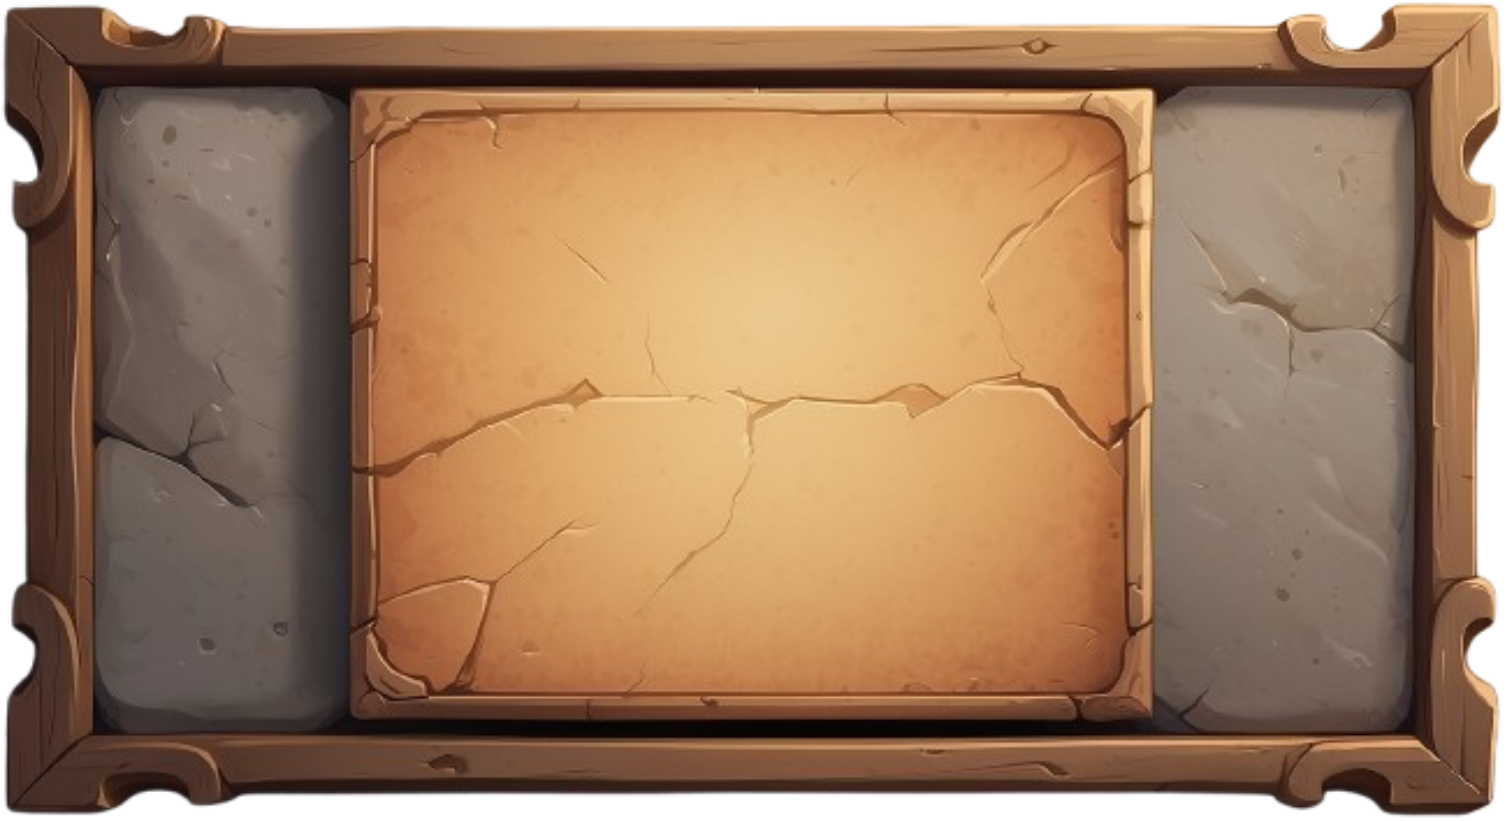
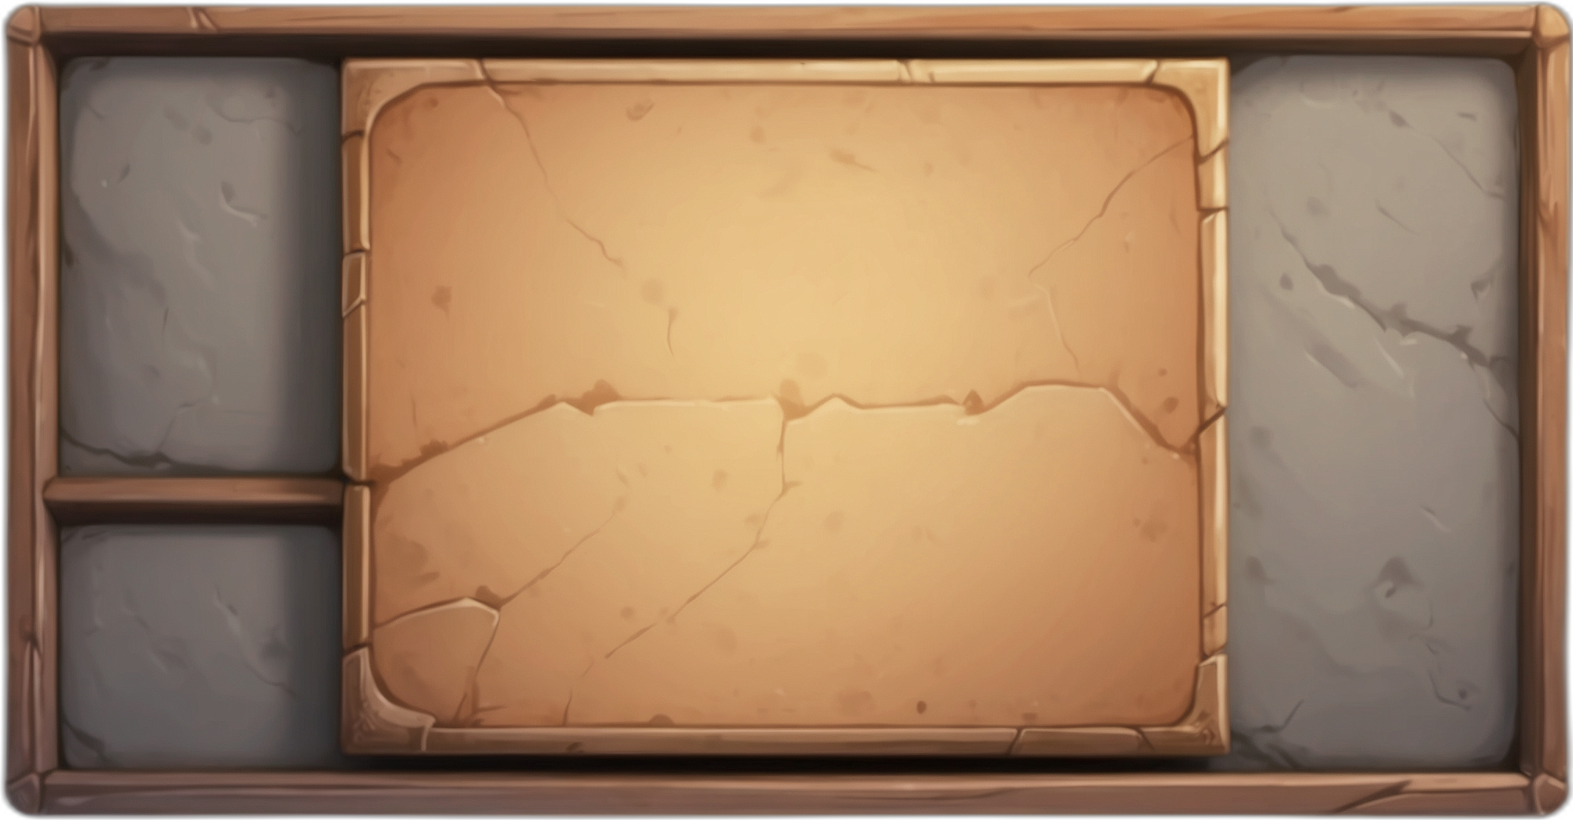
WIP new design recruit card

diff --git a/src/ui/rooms/command_room/room_command_room.rs b/src/ui/rooms/command_room/room_command_room.rs
@@ -63,10 +63,15 @@ pub fn room_command_room(
                         flex_direction: FlexDirection::Row,
                         justify_content: JustifyContent::Center,
                         align_items: AlignItems::Center,
-                        column_gap: Val::Px(30.0),
+                        column_gap: Val::Px(10.0),
                         width: Val::Px(1170.0),
-                        height: Val::Px(650.0),
-                        padding: UiRect::all(Val::Px(80.)),
+                        height: Val::Px(600.0),
+                        padding: UiRect {
+                            left: Val::Px(50.0),
+                            right: Val::Px(50.0),
+                            top: Val::Px(50.0),
+                            bottom: Val::Px(35.0),
+                        },
                         ..default()
                     },
                     GlobalZIndex(0),
@@ -96,10 +101,14 @@ pub fn room_command_room(
                     // Center Area (Big node)
                     table
                         .spawn(Node {
-                            width: Val::Percent(60.0),
+                            width: Val::Percent(65.0),
                             height: Val::Percent(100.0),
                             justify_content: JustifyContent::Center,
                             align_items: AlignItems::Center,
+                            padding: UiRect {
+                                bottom: Val::Px(20.0),
+                                ..default()
+                            },
                             ..default()
                         })
                         .with_children(|center| {

diff --git a/src/ui/rooms/command_room/map_recruit_card.rs b/src/ui/rooms/command_room/map_recruit_card.rs
@@ -24,7 +24,7 @@ pub fn map_recruit_card(
                 justify_content: JustifyContent::FlexStart,
                 column_gap: Val::Px(12.),
                 width: Val::Percent(100.),
-                height: Val::Px(40.),
+                height: Val::Px(50.),
                 padding: UiRect {
                     top: Val::Px(3.),
                     bottom: Val::Px(3.),
@@ -41,7 +41,7 @@ pub fn map_recruit_card(
             BorderColor(ColorPaletteEnum::DarkBrown.as_color()),
             BorderRadius::all(Val::Px(10.)),
             ImageNode {
-                image: my_assets.load("images/rooms/command_room/recruit_card.png"),
+                image: my_assets.load("images/rooms/command_room/recruit_card_3.png"),
                 image_mode: NodeImageMode::Stretch,
                 ..default()
             },

diff --git a/src/ui/rooms/command_room/map_description.rs b/src/ui/rooms/command_room/map_description.rs
@@ -19,12 +19,12 @@ pub fn map_description(
                 row_gap: Val::Px(10.),
                 align_items: AlignItems::FlexStart,
                 width: Val::Percent(100.),
-                height: Val::Percent(35.),
+                height: Val::Percent(34.),
                 padding: UiRect {
-                    left: Val::Px(25.),
-                    right: Val::Px(25.),
+                    left: Val::Px(20.),
+                    right: Val::Px(20.),
                     top: Val::Px(20.),
-                    bottom: Val::Px(20.),
+                    bottom: Val::Px(10.),
                 },
                 ..default()
             },

diff --git a/src/ui/rooms/command_room/map_list.rs b/src/ui/rooms/command_room/map_list.rs
@@ -21,8 +21,8 @@ pub fn map_list(
             padding: UiRect {
                 left: Val::Px(1.),
                 right: Val::Px(5.),
-                top: Val::Px(5.),
                 bottom: Val::Px(5.),
+                ..default()
             },
             ..default()
         })
